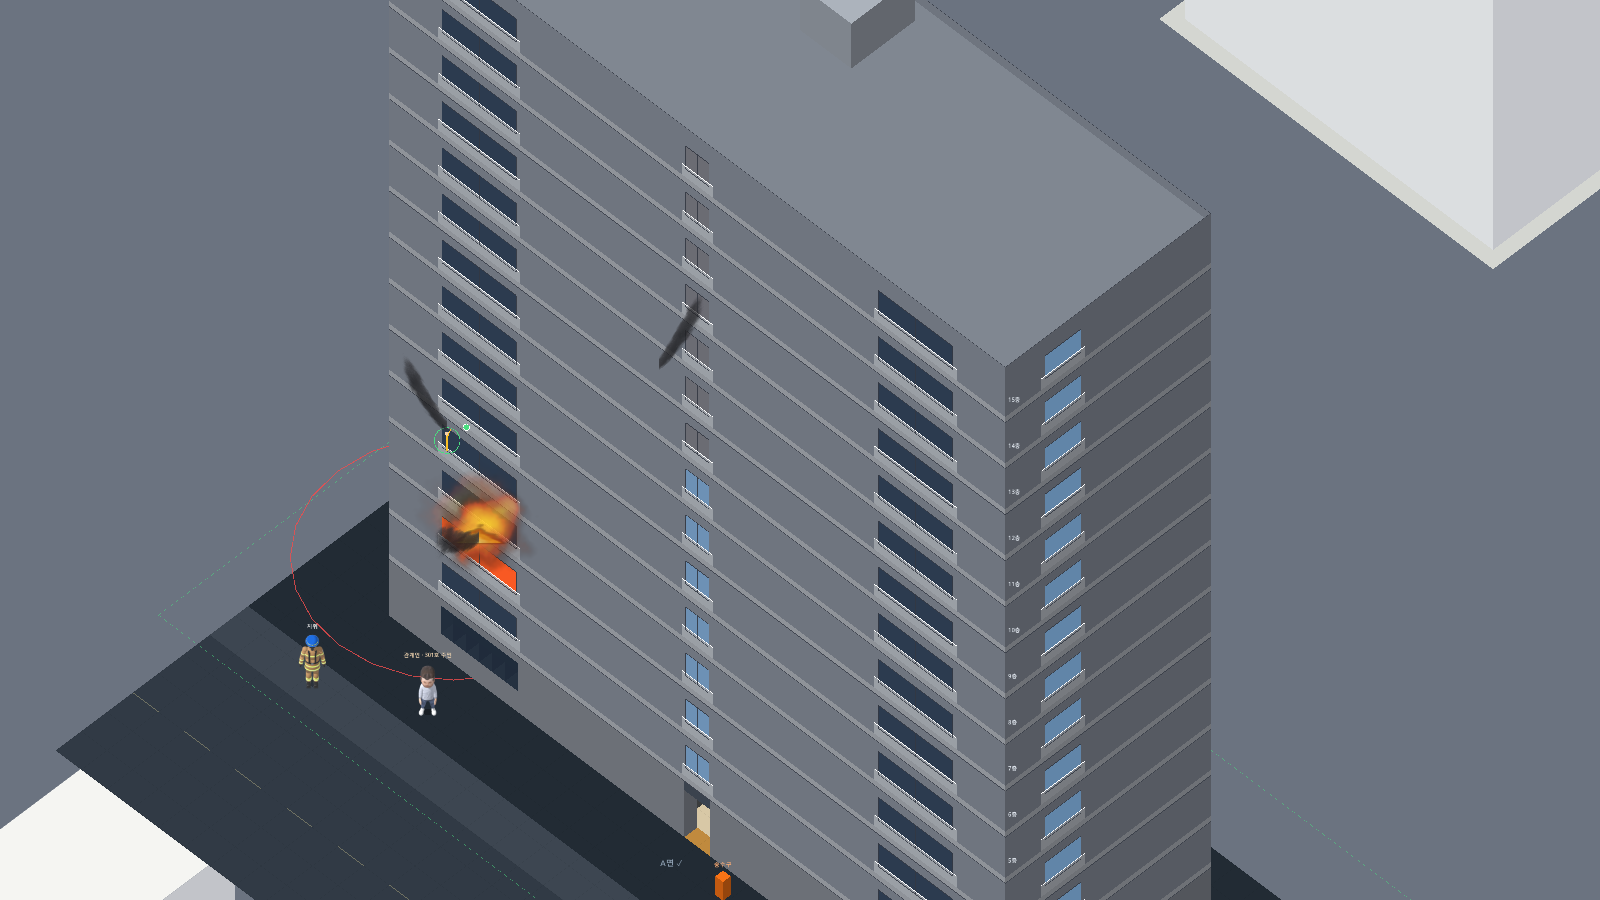
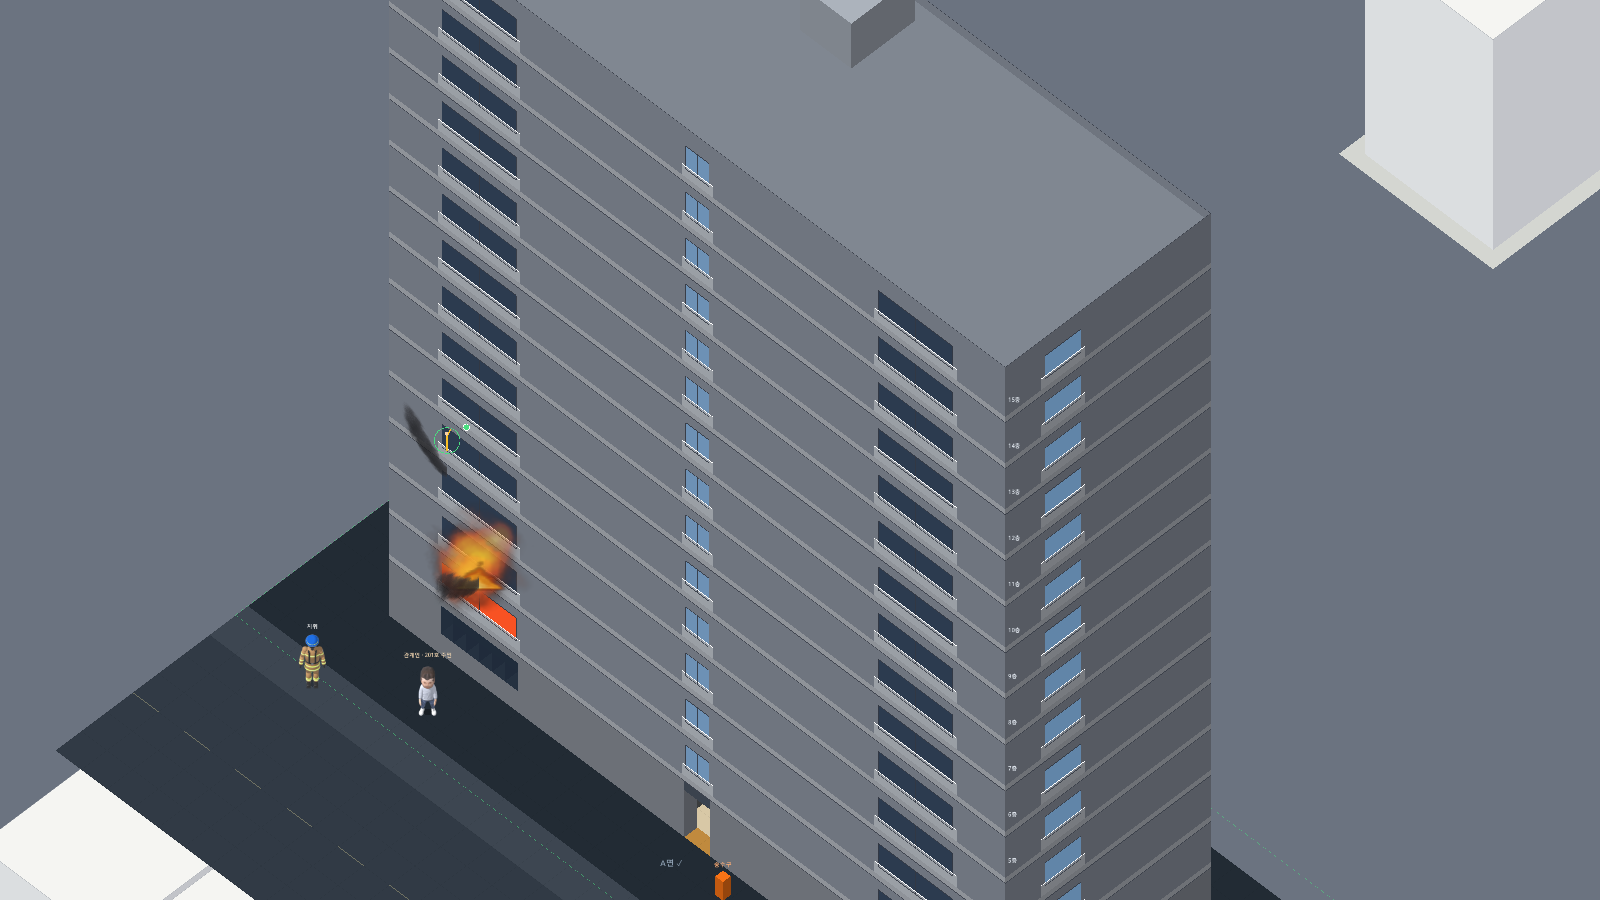
F04: 연기 진하기 통일 — 커튼 천장 쪽과 윗면을 같은 진하기로, 커튼은 아래로 갈수록 옅게

diff --git a/tools/blender/smoke_fx.py b/tools/blender/smoke_fx.py
@@ -335,6 +335,11 @@ def assemble(paths, cfg):
 
     meta = json.load(open(FX_JSON, encoding="utf-8")) if os.path.exists(FX_JSON) else {}
     entry = {"w": w, "h": h // LOOP, "frames": LOOP, "fps": cfg["fps"], "source": SOURCE}
+    # 평균 불투명도 (게임이 커튼·윗면 진하기를 같은 값에 맞출 때 쓴다). 커튼은 연기층 몸통(위 body_v)만
+    body = out[0]
+    if "body_v" in cfg["meta"]:
+        body = body[: int(body.shape[0] * cfg["meta"]["body_v"] * 0.8)]
+    entry["mean_alpha"] = round(float(body[..., 3].mean()), 3)
     entry.update(cfg["meta"])
     meta["smoke_" + KIND] = entry
     json.dump(meta, open(FX_JSON, "w", encoding="utf-8"), ensure_ascii=False, indent=2, sort_keys=True)

diff --git a/docs/decisions.md b/docs/decisions.md
@@ -110,3 +110,4 @@
 | 2026-11-12 | F04 | 연기층 앞면 Blender 커튼 (시험) | tools/blender/smoke_fx.py: Cycles 부피 노이즈(정면 정사영) 48장 → 가로 타일·시간 루프 24장(art/fx/smoke_curtain.png, 320×160, 6장/초). 잘린 앞면(동·남)에 천장~연기층 아랫면(+말려 내려오는 가장자리)으로 늘여 붙이고 이웃 두 장을 겹쳐 재생, 진하기 최대 0.6. 방 안쪽은 Kenney 덩어리 아랫면 한 줄. smoke_style = curtain / puffs 로 바꿔 볼 수 있음 | 사용자 결정 — 상용 게임처럼 미리 렌더한 연기. 시험 결과 보고 윗면·기둥·문 넘침 진행 여부 결정 |
 | 2026-11-12 | F04 | 연기 윗면·기둥·넘침 (Blender 플립북) | 같은 스크립트(tools/blender/smoke_fx.py <폴더> <종류>)로 세 가지 더 구움. ① 윗면 smoke_sheet(위에서 본 연기 판, 가로·세로 타일 192px=2m, 군데군데 틈): 방 안쪽 덩어리 대신 연기층 아랫면 높이에 깔고, 불난 곳에서 멀어지는 쪽으로 0.06m/s 흘려 퍼지는 모습. ② 기둥 smoke_plume: 방마다 타는 칸 가운데에서 천장까지 솟아 위에서 퍼짐(불꽃과 같은 정보 규칙). ③ 넘침 smoke_spill: 바깥으로 난 창·문 윗부분에서 나와 위로 말려 오름(단면·외관 모두, 예전 덩어리 기둥 대신). 방 사이 문 넘침은 인방~천장 틈에 눌려 검은 붓 자국처럼 보여 그리지 않음 | 사용자 결정(커튼 시험 승인 후 나머지 셋). 방 사이 문은 옆방 연기층이 대신 보여 줌 |
 | 2026-11-12 | F04 | 연기 선두 (천장을 따라 퍼진 뒤 쌓임) | A: 시뮬레이션에 연기 선두 추가. 방마다 출발점(불난 방 = 타는 칸 가운데, 옆방 = 연기가 들어온 개구부)과 선두 거리. 교재 수평 0.5~1m/s(화재2 제4편 제7절, 기획안 5-3-1)로 나아가고 상부층이 뜨거울수록(외기+200℃에서 최대) 빠름. 다 덮기 전: 덮인 원 안에만 천장류 두께(천장 높이 × 0.1, Alpert)의 얇은 판·커튼, 가장자리에 말려 나가는 덩어리, 선두 밖은 시야 맑음, 선두가 닿지 않은 개구부로는 넘치지 않음. 다 덮은 뒤: 예전처럼 연기층이 아래로 쌓임. 연기 부피·두께 계산(2층 구획 모델)은 그대로 | 사용자 결정 — 실제 화재성상(솟음 → 천장 따라 퍼짐 → 아래로 쌓임 → 문 윗면 아래로 내려오면 옆방). B(화면만 흉내)는 화면·시뮬 어긋남, C(공간 쪼개기)는 과함 |
+| 2026-11-12 | F04 | 연기 진하기 통일 | 진하기 하나 = 1 - e^(-1.2 × 짙기 × 연기층 두께), 상한 0.75 (짙기 = 0.25 + 0.75 × (1 - 가시거리/10m)). 커튼 천장 쪽과 윗면 판이 같은 값. 커튼은 천장 1 → 연기층 아랫면 0.4로 옅어짐(꼭짓점 색). 윗면 그림은 틈 때문에 평균 불투명도 0.42라 모자란 만큼 고른 색을 아래에 깔아 평균을 맞춤(fx.json mean_alpha) | 사용자 결정 — 커튼(벽 쪽)은 검고 천장 쪽은 옅어 물리(천장이 가장 진하고 아래로 옅어짐)와 거꾸로 보였음. 원인: 같은 연기를 커튼 0.52·윗면 0.29로 그렸고, 커튼은 위아래가 같은 진하기, 아래쪽 그늘이 짙은 연기처럼 보임. 커튼 다시 굽기(그늘 없애기)는 보류 |

diff --git a/docs/progress.md b/docs/progress.md
@@ -35,3 +35,4 @@
 | 2026-11-12 | F04 Blender 연기 커튼 시험 | tools/blender/smoke_fx.py(새), art/fx/smoke_curtain.png(새)·fx.json, scripts/ui/fx_art(curtain·draw_curtain)·building/floor_layer(_draw_curtain_faces)·view_params(smoke_style·smoke_curtain_alpha), data/ui/view_params, tests/test_art | 사용자 확인 대기. 진하면 검은 벽처럼 보여 0.6으로 낮춤 |
 | 2026-11-12 | F04 연기 윗면·기둥·넘침 플립북 | tools/blender/smoke_fx.py(종류별 굽기), art/fx/smoke_sheet·smoke_plume·smoke_spill.png(새)·fx.json, scripts/ui/fx_art(draw_flip)·building/floor_layer(_draw_smoke_sheet·_draw_fire_plumes·_draw_smoke_spills·smoke_spills)·view_params, data/ui/view_params, tests(test_art, test_cutaway) | 사용자 게임 확인 대기. 외관 넘침이 가늘게 보이면 굵기·진하기 조정 |
 | 2026-11-12 | F04 연기 선두 | scripts/simulation/compartment(compartment 선두·opening center·compartment_model _advance_front·넘침 조건), fire_sim(_start_fire_fronts), perception(선두 밖 맑음·room_seen_reach), scripts/ui/fx_art(draw_flip_poly)·building/floor_layer(선두 원 자르기·가장자리), data/fire/fire_params(smoke_front_*·ceiling_jet_depth_ratio), tests(test_smoke_front 새, _shot_house front 옵션, _probe_smoke 점검 도구) | 시나리오가 신고 몇 분 뒤에 시작해 처음 화점실은 이미 덮여 있음 — 퍼지는 모습은 문을 열거나 새 방으로 번질 때 보임. 먼 방 연기층이 화점실보다 두꺼워지는 현상은 따로 점검 필요 |
+| 2026-11-12 | F04 연기 진하기 통일 | scripts/ui/fx_art(draw_flip 아래쪽 배율·mean_alpha)·building/floor_layer(진하기 하나·윗면 바탕색·커튼 위아래 변화)·view_params, data/ui/view_params(smoke_max_opacity·smoke_opacity_k·smoke_curtain_low, 예전 smoke_curtain_alpha·smoke_sheet_alpha 지움), art/fx/fx.json(mean_alpha), tools/blender/smoke_fx.py(mean_alpha 기록), tests/test_cutaway | 전체가 조금 어두워짐 — 바닥이 잘 안 보이면 smoke_max_opacity 낮추기 |
